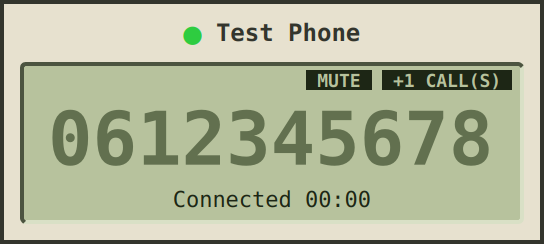
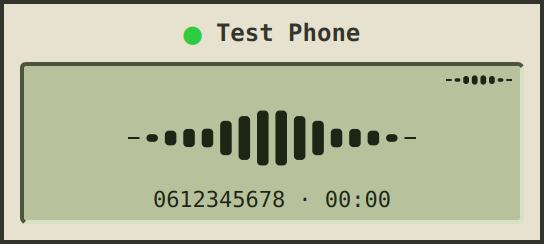
leansip 0.3.0
README: the new screenshot, the activity display, ringing, Ctrl+0-9
and the label/shortcut profile keys.

Changed region(s): [[0.0938, 0.4303, 0.9062, 0.6885], [0.2812, 0.7746, 0.7188, 0.8607], [0.5625, 0.2869, 0.9688, 0.373]]

diff --git a/README.md b/README.md
@@ -7,7 +7,7 @@ send DTMF, speak into the call, transcribe what the other side says, record, and
 diagnosis of the call afterwards. Every command prints JSON. A small keyboard-driven dialer
 shares the same calls, so you can watch, join or hang up what an agent is doing.
 
-<img src="docs/screenshot.png" width="272" alt="The leansip dialer during a call: the number on a green LCD, with MUTE and +1 CALL(S) indicators">
+<img src="docs/screenshot.png" width="272" alt="The leansip dialer during a call: bars of the caller's voice on a green LCD above the number and call time">
 
 ## Agents: leansipctl
 
@@ -56,9 +56,12 @@ leansip -p work            # another profile, in its own window
 leansip --record           # record calls
 ```
 
-The window is frameless and keyboard driven; drag anywhere to move it. Its LCD shows `MUTE`
-and `+N CALLS` when an agent has calls of its own. A second `leansip` for the same profile
-hands its number to the open window.
+The window is frameless and keyboard driven; drag anywhere to move it. During a call the LCD
+shows the far end's voice as bars spreading out from the centre, the last second of it, and
+your microphone small in the corner (`MUTE` in its place while muted); `+N CALLS` means an agent
+has calls of its own. An incoming call brings the window to the front and flashes it amber
+until you answer (Enter) or decline (Esc). A second `leansip` for the same profile hands its
+number to the open window.
 
 | Key          | Action                                                   |
 |--------------|----------------------------------------------------------|
@@ -67,6 +70,7 @@ hands its number to the open window.
 | `Esc`        | hang up · decline · clear · quit when empty              |
 | `↑`          | recall the last number                                   |
 | `m`          | mute · unmute the microphone                             |
+| `Ctrl+0-9`   | switch to the profile with that `shortcut`               |
 | `?` / `F1`   | help                                                     |
 | `Ctrl+Q`     | quit                                                     |
 
@@ -93,7 +97,8 @@ must be private (`chmod 600`).
 default_profile = "desk"
 
 [profiles.desk]
-display_name = "Desk"
+label = "Desk"                         # the name shown in the dialer
+shortcut = 1                           # Ctrl+1 switches the dialer to it
 aor = "sip:phone1@pbx.example.com"
 password_cmd = "rbw get sip-desk"      # or: password = "..."
 
